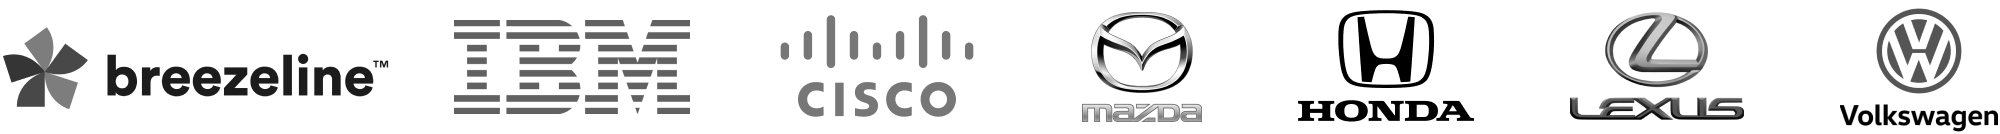
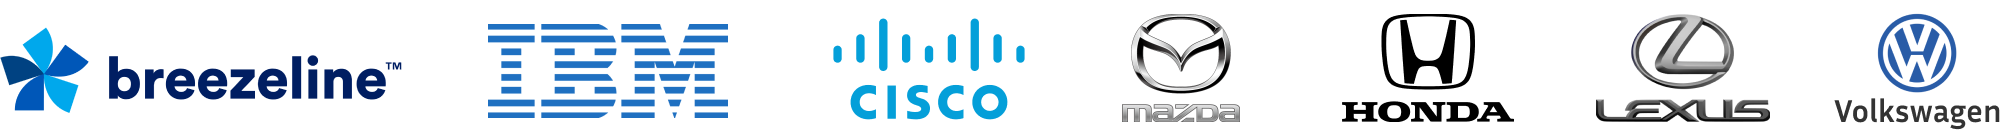
Saving progress. Adjusted TW screens. Added code accent.

diff --git a/index.html b/index.html
@@ -6,22 +6,48 @@
     <meta name="viewport" content="width=device-width, initial-scale=1.0" />
     <title>Karl Pablo</title>
   </head>
-  <body>
-    <header class="h-screen container mx-auto flex flex-col gap-y-6 md:gap-y-8 justify-center p-6">
-      <div class="text-4xl md:text-5xl lg:text-6xl font-extrabold">
-        <h1 class="text-persian-green">Karl Pablo</h1>
-        <h2 class="text-black">Front-end Web Engineer</h2>
+  <body>    
+    <header class="sm:h-screen relative">
+      <div class="bg-code h-full absolute z-10 inset-0"></div>
+      <div class="h-full relative z-50 container mx-auto flex flex-col gap-y-6 md:gap-y-8 justify-center p-10 sm:p-6">
+        <div class="relative text-4xl md:text-5xl lg:text-6xl font-extrabold">
+          <h1 class="text-persian-green">Karl Pablo</h1>
+          <h2 class="text-charcoal">Front-end Web Engineer</h2>
+        </div>
+        <p class="text-charcoal text-lg sm:text-xl md:text-2xl">
+          <span class="font-bold">Over 13 years of building delightful user interfaces and websites for top brands.</span>
+          Specializes in <span class="text-burnt-sienna">React</span> and <span class="text-burnt-sienna">Vue</span>.
+          Highly proficient with <span class="text-burnt-sienna">Tailwind</span>.
+        </p>
+        <img src="./top-clients.png" class="top-clients hidden sm:block" alt="Top clients include Breezeline, IBM, Cisco, Mazda, Honda, Lexus, and Volkswagen." />
+        <img src="./top-clients-stacked.png" class="top-clients sm:hidden" alt="Top clients include Breezeline, IBM, Cisco, Mazda, Honda, Lexus, and Volkswagen." />
+        <nav class="flex justify-center space-x-6 sm:pt-6">
+          <button class="button button-primary">email</button>
+          <button class="button button-secondary">github</button>
+        </nav>
       </div>
-      <p class="text-charcoal text-lg sm:text-xl md:text-2xl">
-        <span class="font-bold">Over 13 years of building delightful user interfaces and websites for top brands.</span>
-        Specializes in
-        <span class="text-burnt-sienna">React</span> and
-        <span class="text-burnt-sienna">Vue</span>.
-        Highly proficient with <span class="text-burnt-sienna">Tailwind</span>.
-      </p>
-      <img src="./top-clients.png" class="hidden xs:block" alt="Top clients include Breezeline, IBM, Cisco, Mazda, Honda, Lexus, and Volkswagen." />
-      <img src="./top-clients-stacked.png" class="xs:hidden" alt="Top clients include Breezeline, IBM, Cisco, Mazda, Honda, Lexus, and Volkswagen." />
     </header>
+
+    <main class="relative">
+      <section class="sm:h-screen bg-charcoal">
+        <div class="h-full container mx-auto flex flex-col gap-y-6 md:gap-y-8 justify-center p-6">
+          <h2 class="text-4xl md:text-5xl lg:text-6xl font-extrabold text-white">Work History</h2>
+        </div>
+      </section>
+
+      <section class="sm:h-screen bg-persian-green">
+        <div class="h-full container mx-auto flex flex-col gap-y-6 md:gap-y-8 justify-center p-6">
+          <h2 class="text-4xl md:text-5xl lg:text-6xl font-extrabold text-white">Recent Projects</h2>
+        </div>
+      </section>
+
+      <section class="sm:h-screen bg-burnt-sienna">
+        <div class="h-full container mx-auto flex flex-col gap-y-6 md:gap-y-8 justify-center p-6">
+          <h2 class="text-4xl md:text-5xl lg:text-6xl font-extrabold text-white">Get In Touch</h2>
+        </div>
+      </section>
+    </main>
+
     <script type="module" src="/main.js"></script>
   </body>
 </html>

diff --git a/main.css b/main.css
@@ -3,3 +3,51 @@
 @tailwind base;
 @tailwind components;
 @tailwind utilities;
+
+.bg-code {
+  background: url('/code.png') 0% 0% no-repeat;
+  background-size: 16em;
+}
+
+.bg-code:before {
+  content: "";
+  position: absolute;
+  top: 0; left: 0;
+  width: 100%; height: 100%;
+  background: linear-gradient(135deg, transparent 8%, white 8%);
+}
+
+.hire-me {
+}
+
+.top-clients {
+  filter: grayscale(100%);
+}
+
+.shadow-hard {
+  box-shadow: 4px 4px 0px #000;
+}
+
+.button {
+  @apply relative bg-gray-300 px-4 py-2 rounded-xl border-2 border-black text-white font-mono font-bold text-2xl shadow-hard;
+}
+
+.button-primary {
+  @apply bg-persian-green;
+}
+
+.button-secondary {
+  @apply bg-burnt-sienna;
+}
+
+.buttonx:hover {
+  box-shadow: 5px 5px 0px #000;
+  top: -1px;
+  left: -1px;
+}
+
+.button:active {
+  top: 4px;
+  left: 4px;
+  box-shadow: 0px 0px 0px #000;
+}

diff --git a/tailwind.config.js b/tailwind.config.js
@@ -4,9 +4,9 @@ export default {
   content: ['./index.html',],
   theme: {
     screens: {
-      'xs': '600px',
-      'md': '800px',
-      'lg': '1000px',
+      'sm': '600px',
+      'md': '780px',
+      'lg': '960px',
     },
     extend: {
       fontFamily: {
